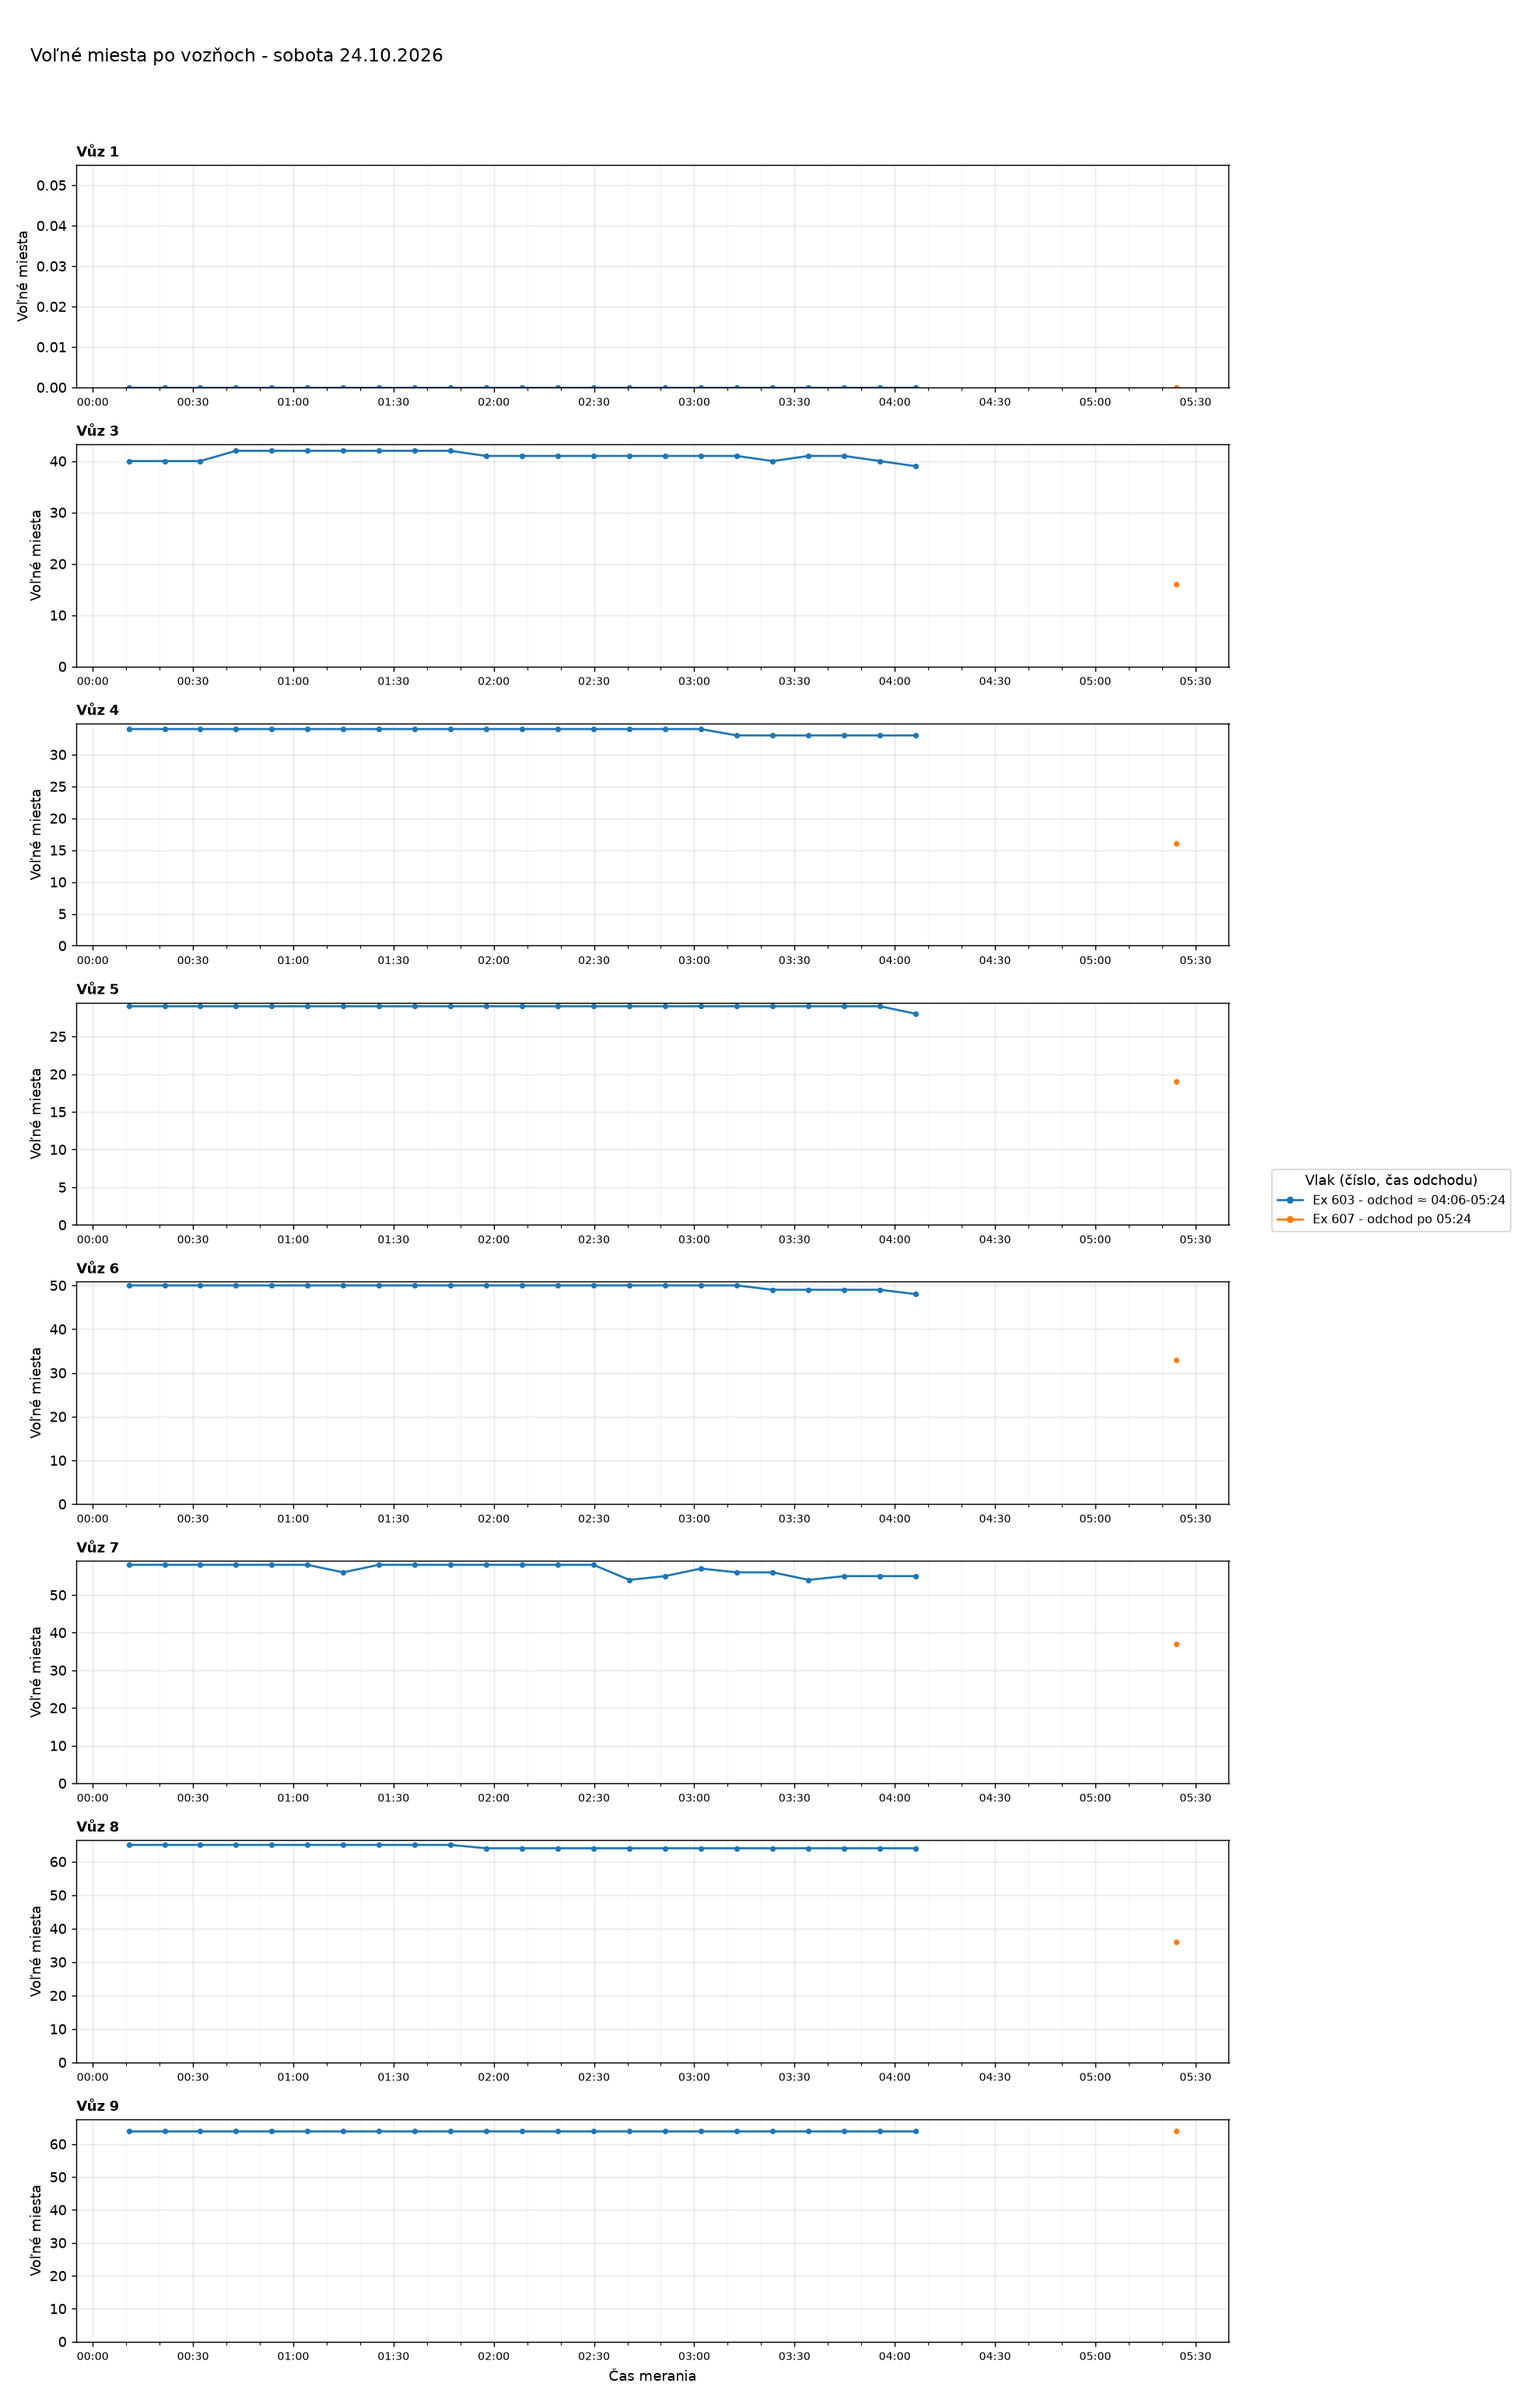
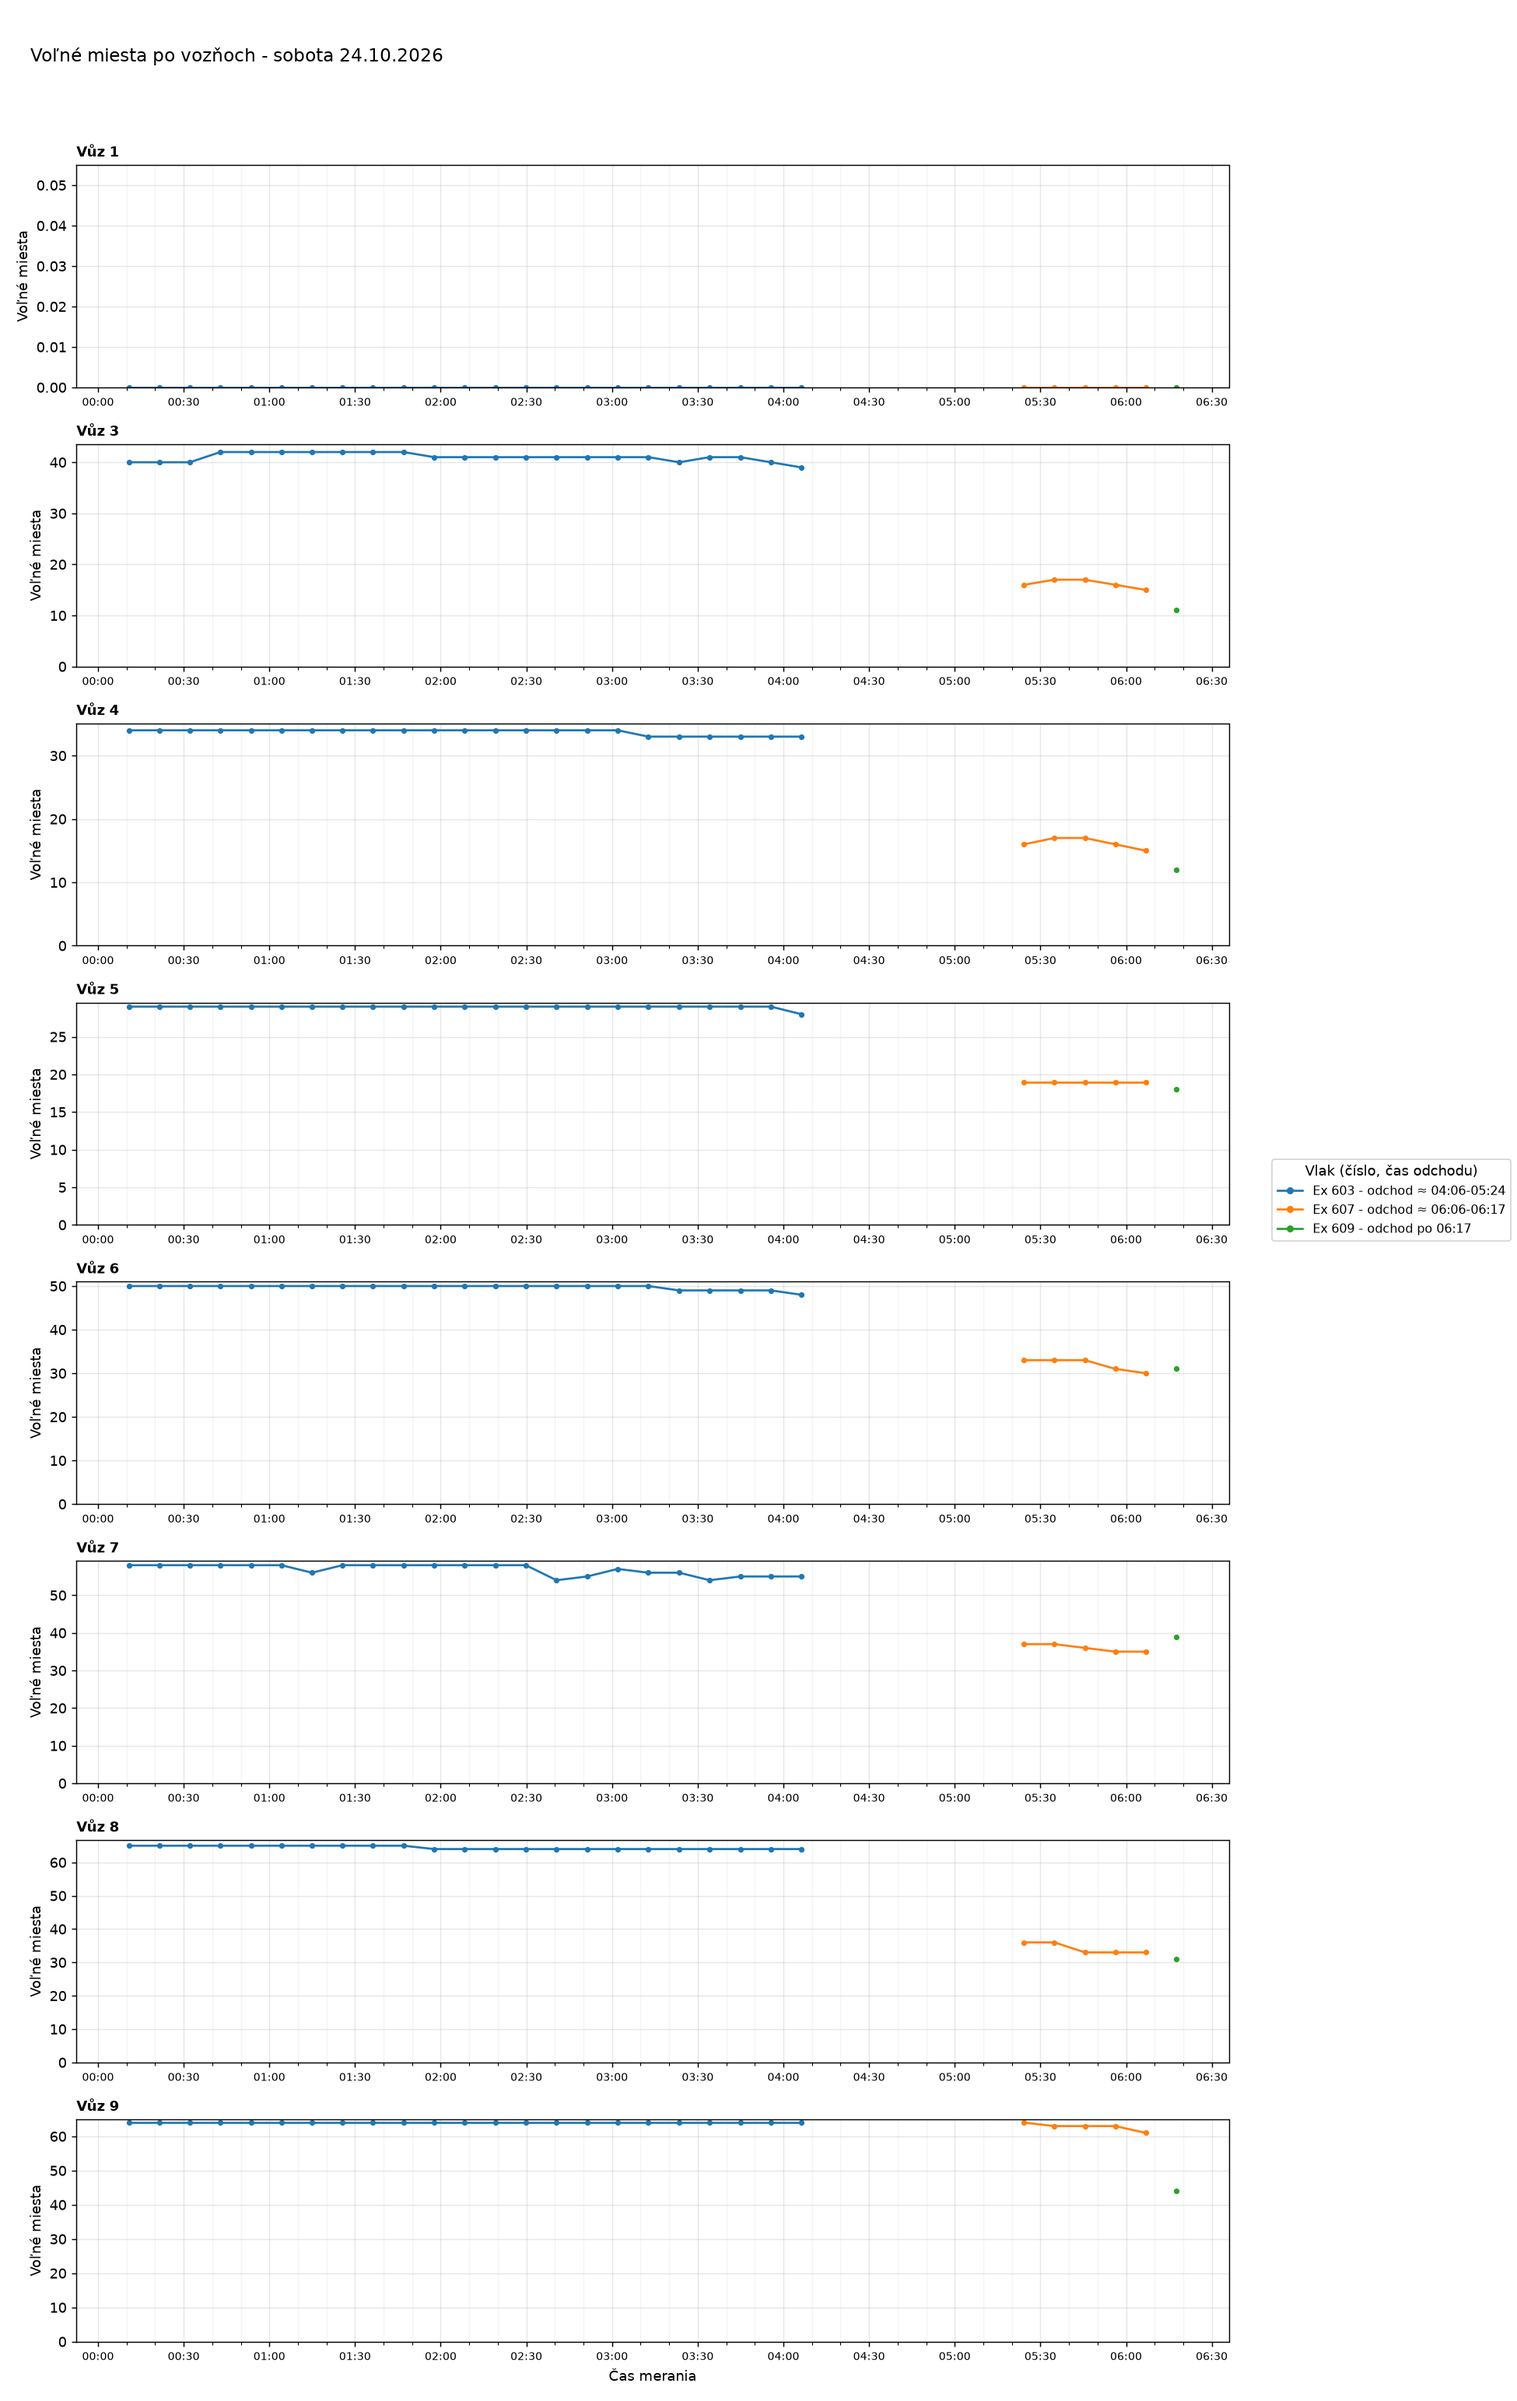
Aktualizácia grafov 2026-10-24 06:26

diff --git a/index.html b/index.html
@@ -35,7 +35,7 @@ h2.oddiel{margin:36px 0 0;font-size:1.4rem}
 <body>
 <main>
 <h1>Voľné miesta vo vlakoch</h1>
-<p class="muted">Posledné meranie: 24.10.2026 05:24 ·
+<p class="muted">Posledné meranie: 24.10.2026 06:17 ·
 <a href="data/obsadenost_data.csv">stiahnuť dáta (CSV)</a></p>
 <nav class="nav"><a href="#suhrn">Súhrn</a><a href="#statistiky">Štatistiky</a><a href="#historia">História grafov</a></nav>
 
@@ -44,7 +44,7 @@ h2.oddiel{margin:36px 0 0;font-size:1.4rem}
 <div class="tablewrap"><table>
 <thead><tr><th>Deň</th><th>Meraní</th><th>Vlakov</th><th>Čas meraní</th></tr></thead>
 <tbody>
-<tr><td><a href="#d2026-10-24">sobota 24.10.2026</a></td><td>24</td><td>2</td><td>00:10-05:24</td></tr>
+<tr><td><a href="#d2026-10-24">sobota 24.10.2026</a></td><td>29</td><td>3</td><td>00:10-06:17</td></tr>
 <tr><td><a href="#d2026-10-23">piatok 23.10.2026</a></td><td>64</td><td>13</td><td>07:25-23:49</td></tr>
 <tr><td><a href="#d2026-10-22">štvrtok 22.10.2026</a></td><td>80</td><td>11</td><td>00:08-16:10</td></tr>
 <tr><td><a href="#d2026-10-21">streda 21.10.2026</a></td><td>96</td><td>15</td><td>00:10-23:58</td></tr>
